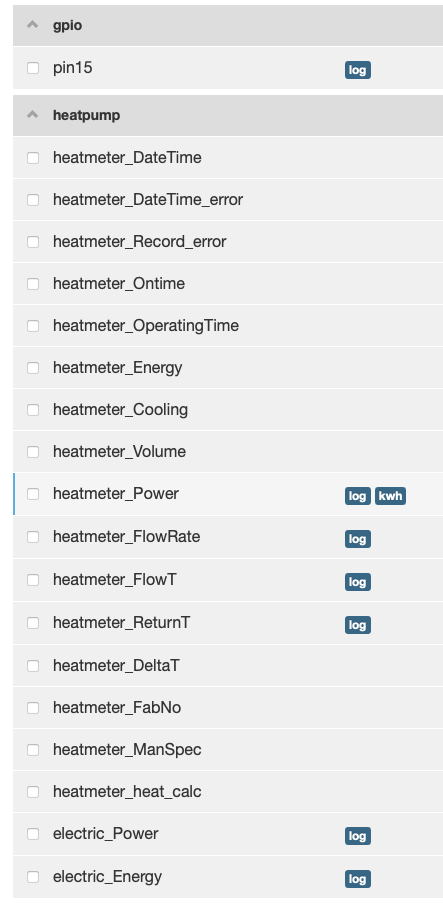
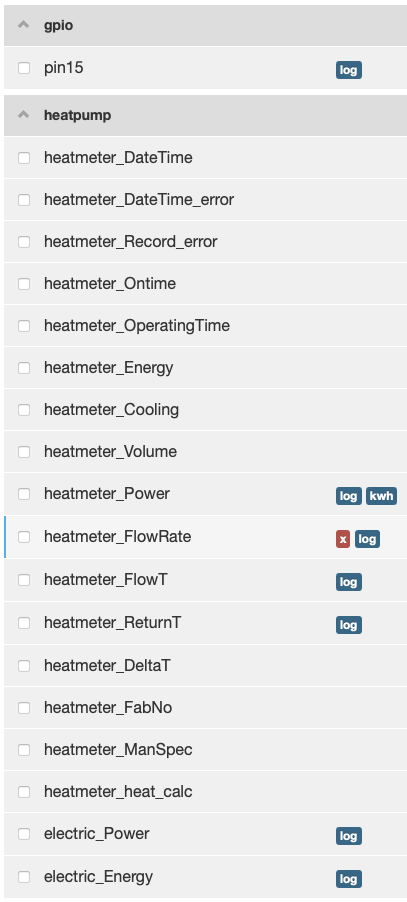
wip draft

diff --git a/_drafts/open-energy-monitoring.md b/_drafts/open-energy-monitoring.md
@@ -8,6 +8,7 @@ wise words
 * Covered briefly when talking about Heat Pump installation and initial Home Assistant setup.
 * Worth a deeper dive
 * Like Home Assistant, runs on a small Raspberry Pi level computer. Install the software on your own hardware or buy a kit from Open Energy Monitoring shop.
+* The one I've got looks like it came pre-configured to send data to an account already setup on Emoncms.org. There's a QR code on the side that takes you to a web view of the data.
 
 {% include candid-image.html src="/assets/images/home-assistant/emonTx5.jpg" alt="emonHP data logger" %}
 
@@ -22,6 +23,7 @@ wise words
 * One of the sockets is being used by a WiFi extender with an ethernet cable connected to the emonHP (out of shot at the top).
 * Which is weird because I can see a WiFi antenna sticking out of the top of the emonHP.
 * The [installation instructions](https://files.openenergymonitor.org/emonhp.pdf) say that it supports both Ethernet and WiFi
+* The electrician that installed it was under the impression that WiFi wasn't supported. Maybe previous generations were ethernet only. Or maybe using a WiFi extender means you could just plug it in without having to configure anything on the emonHP. 
 * Press the button on the front to cycle through different screens on the small LCD display
 * Each screen displays information or allows you to perform an action like shutdown, toggle Wireless AP, toggle SSH access
 * Ethernet screen shows that Ethernet is connected and provides the IP address
@@ -65,7 +67,40 @@ wise words
 {% include candid-image.html src="/assets/images/home-assistant/emoncms-inputs-feeds.png" alt="Emoncms Inputs after feeds configured" %}
 
 * Badge added to each input when you create a feed
+* Two badges on Power input as I create two feeds from it, one direct one by applying an input processor to transform the values
 * Rather than exposing the heatmeter_Energy input with its 1kWh granularity, I used the "Power to kWh" input processor to calculate energy over time from the power input. This is equivalent to an integral in Home Assistant but should be more accurate as the inputs in Emoncms are updated every 10 seconds rather than once a minute.
+* FlowRate also has two badges. This time because I had to preprocess the input values before logging to a feed. The flow rate values reported by the heat meter are not in litres per minute. I found a [forum post](https://community.openenergymonitor.org/t/emonhp-how-to-create-flow-rate-feed/25046/2) explaining that you need to multiply by `16 2/3` to get litres per minute. No idea why, but when I do it, I get the same values reported from emoncms.org. 
 
 * Go to Apps, create a new instance of My Heatpump app, configure the available feeds and get locally running version of Emoncms.org web view
 * Can also build your own graphs, visualizations and dashboards
+
+# Local Logs into Home Assistant
+
+* Emoncms integration and "Add Entry" - can have as many as you like
+* Keep the entry for emoncms.org until I've transitioned over and confident everything is working
+* URL is `http://192.168.1.160` which creates entities with weird looking names, e.g. "emoncms@192.168.1.160 flowrate"
+* Went through and gave them all sensible names, icons and entity ids
+
+{% include candid-image.html src="/assets/images/home-assistant/emonhp-sensors.png" alt="EmonHP Sensors with sensible names and icons" %}
+
+* Only one sensor has units
+* Checked emoncms source. Has a mapping table for each type of unit to corresponding Home Assistant sensor definition. 
+* Gets unit type from list of feeds used when configuring at `/feed/list.json`
+
+```json
+[
+  {"id":"1","userid":"1","name":"elec","tag":"heatpump","public":"","size":"30172","engine":"5","unit":"","value":25.8,"time":1762271000},
+  {"id":"3","userid":"1","name":"elec_kwh","tag":"heatpump","public":"","size":"30040","engine":"5","unit":"","value":236.387,"time":1762271000},
+  {"id":"4","userid":"1","name":"heat","tag":"heatpump","public":"","size":"30008","engine":"5","unit":"","value":0,"time":1762271000},
+  {"id":"5","userid":"1","name":"heat_kwh","tag":"heatpump","public":"","size":"30008","engine":"5","unit":"kWh","value":22.748589999992,"time":1762271000},
+  {"id":"8","userid":"1","name":"flowrate","tag":"heatpump","public":"","size":"29900","engine":"5","unit":"","value":0.834,"time":1762271000},
+  {"id":"9","userid":"1","name":"flowT","tag":"heatpump","public":"","size":"29888","engine":"5","unit":"","value":21.35,"time":1762271000},
+  {"id":"10","userid":"1","name":"returnT","tag":"heatpump","public":"","size":"29880","engine":"5","unit":"","value":21.29,"time":1762271000},
+  {"id":"11","userid":"1","name":"dhw","tag":"gpio","public":"","size":"29844","engine":"5","unit":"","value":0,"time":1762271001}
+]
+```
+
+* Only the feed which converts power to energy over time has unit defined
+* Turns out that once you've created feeds on inputs tab you have to go to feeds tab and explicitly define units for them
+* Tried to use "Reconfigure" to update Home Assistant integration but it just marked all the sensors as "no longer provided"
+* Deleted them all, deleted the entry and started again. To my surprise when the entities were recreated, Home Assistant reused the names, icons and entity ids I applied the first time round.
